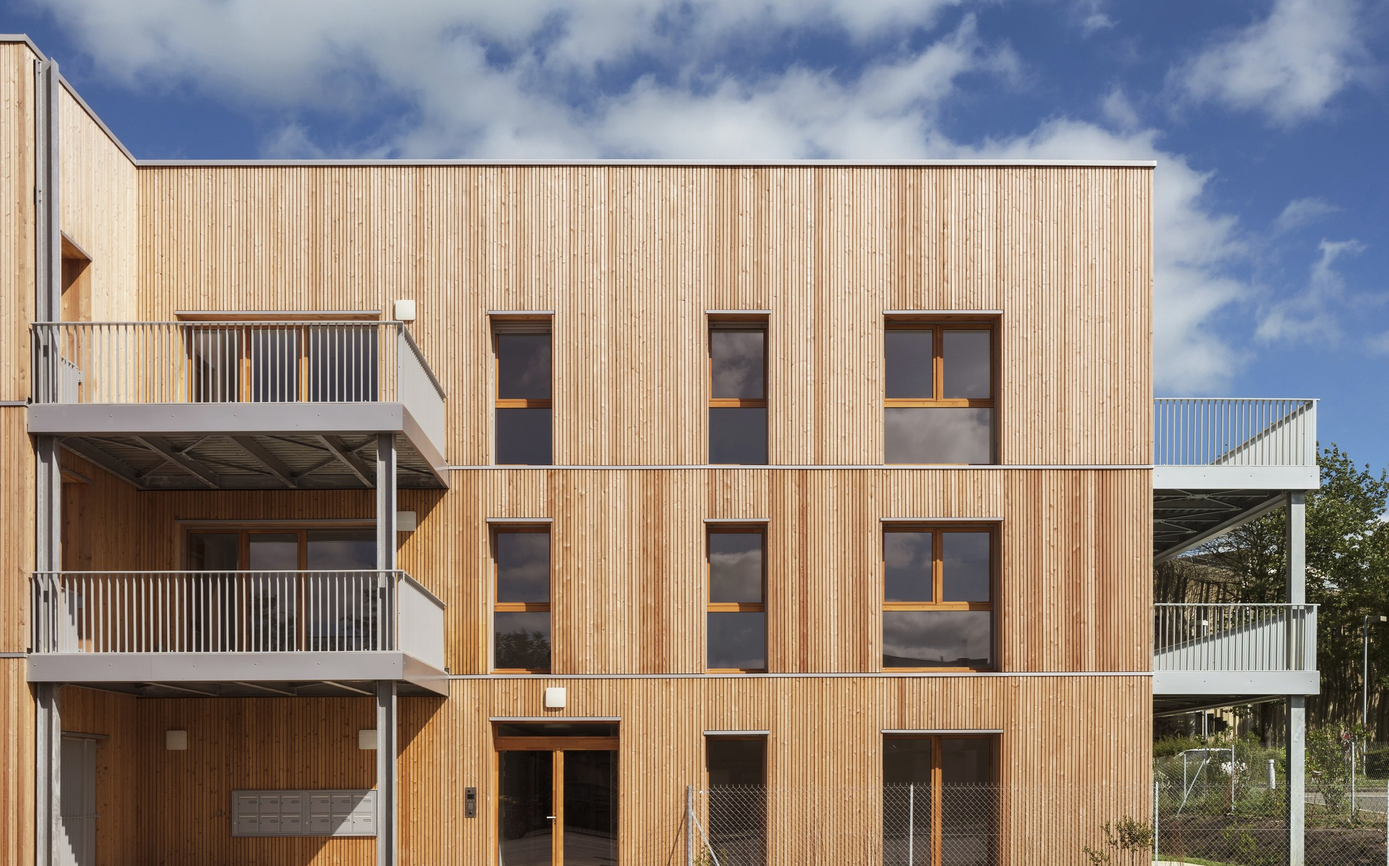
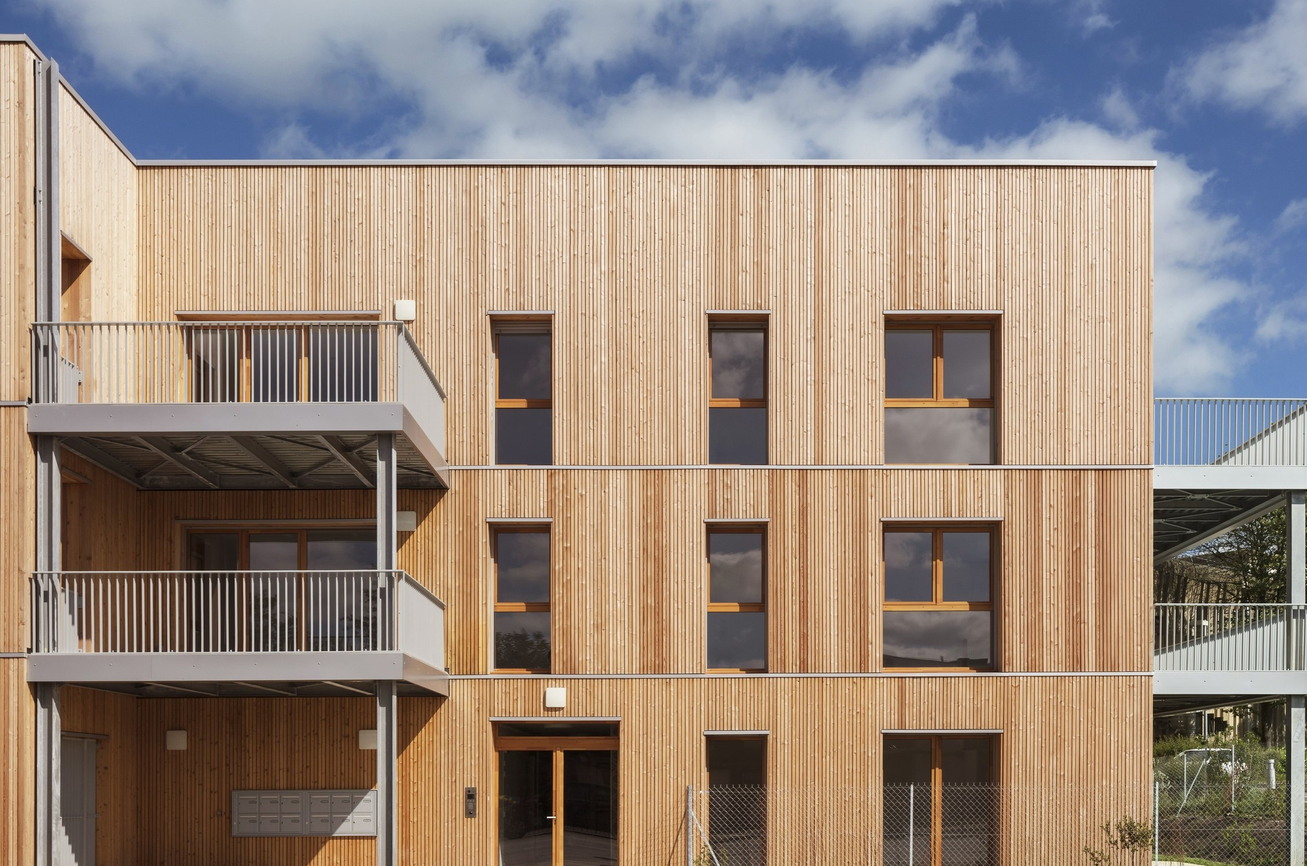
Sous-titres de catégories, recadrage accueil et ciel animé
- Page Projets : les sous-titres de catégories deviennent "Logements
  collectifs", "Programmes mixtes & équipements" et "Études &
  concours" (remplacent les anciens libellés).
- Accueil : photo recadrée à droite pour s'arrêter exactement à la
  fin du poteau qui soutient le balcon (au lieu de déborder sur les
  arbres/la clôture).
- Accueil : le ciel et les nuages défilent désormais lentement vers
  la gauche en boucle (effet tapis roulant), en boucle parfaitement
  continue, pendant que le bâtiment reste fixe. Implémenté via un
  calque masqué sur la silhouette du toit (assets/hero-sky-mask.png)
  et une texture de ciel dupliquée en miroir pour un bouclage sans
  raccord visible (assets/hero-sky-tile.jpg).

Claude-Session: https://claude.ai/code/session_01HokbPAEQRy36d6UYd3ZJJY

diff --git a/css/style.css b/css/style.css
@@ -221,6 +221,45 @@ img { display: block; max-width: 100%; }
   filter: grayscale(100%);
 }
 
+.hero-sky {
+  position: absolute;
+  inset: 0;
+  overflow: hidden;
+  pointer-events: none;
+  -webkit-mask-image: url('assets/hero-sky-mask.png');
+  mask-image: url('assets/hero-sky-mask.png');
+  -webkit-mask-size: cover;
+  mask-size: cover;
+  -webkit-mask-position: center 38%;
+  mask-position: center 38%;
+  -webkit-mask-repeat: no-repeat;
+  mask-repeat: no-repeat;
+}
+
+.hero-sky-track {
+  display: flex;
+  height: 100%;
+  width: max-content;
+  filter: grayscale(100%);
+  animation: hero-sky-scroll 90s linear infinite;
+}
+
+.hero-sky-img {
+  display: block;
+  flex: none;
+  height: 100%;
+  width: auto;
+}
+
+@keyframes hero-sky-scroll {
+  from { transform: translateX(0); }
+  to { transform: translateX(-50%); }
+}
+
+@media (prefers-reduced-motion: reduce) {
+  .hero-sky-track { animation: none; }
+}
+
 .hero::after {
   content: "";
   position: absolute;

diff --git a/index.html b/index.html
@@ -23,6 +23,12 @@
 
 <section class="hero">
   <img src="assets/hero-amiens.jpg" alt="maast.a — façade bois d'une résidence à Amiens" style="object-position: center 38%;">
+  <div class="hero-sky" aria-hidden="true">
+    <div class="hero-sky-track">
+      <img class="hero-sky-img" src="assets/hero-sky-tile.jpg" alt="">
+      <img class="hero-sky-img" src="assets/hero-sky-tile.jpg" alt="">
+    </div>
+  </div>
   <a class="hero-content js-transition" href="projects.html" aria-label="Voir les projets">
     <span class="hero-mark">maast.a</span>
   </a>

diff --git a/js/projects-data.js b/js/projects-data.js
@@ -1,7 +1,7 @@
 const CATEGORIES = [
-  { key: "logements", label: "Logements" },
+  { key: "logements", label: "Logements collectifs" },
   { key: "equipements", label: "Programmes mixtes & équipements" },
-  { key: "etudes", label: "Études" },
+  { key: "etudes", label: "Études & concours" },
 ];
 
 const PROJECTS = [
